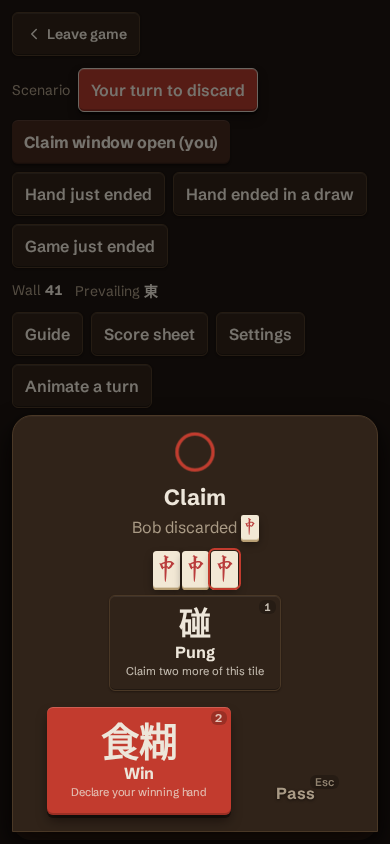
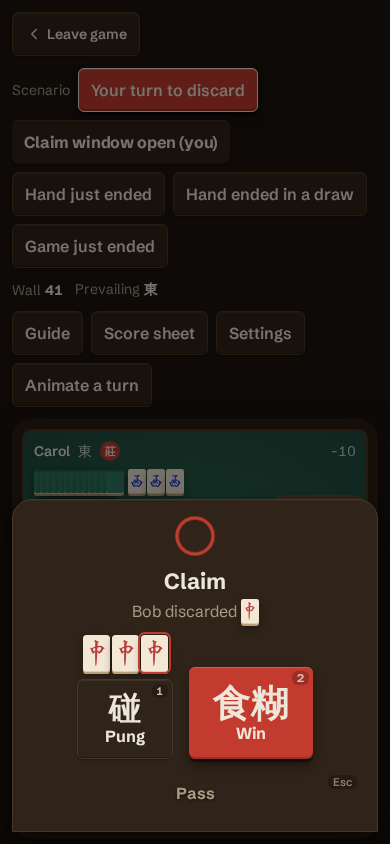
feat(web): drop claim button sub-labels, pin pass to its own bottom row
Claude-Session: https://claude.ai/code/session_016N6BrhuJ77Wo7osov28duU

diff --git a/web/src/lib/ui/ClaimDialog.svelte b/web/src/lib/ui/ClaimDialog.svelte
@@ -47,56 +47,33 @@
 		win: '食糊'
 	};
 
-	function claimSubLabel(kind: ClaimKind): string | null {
-		switch (kind) {
-			case 'pung':
-				return m.claimDialog_pungSubLabel();
-			case 'chow':
-				return m.claimDialog_chowSubLabel();
-			case 'kong':
-				return m.claimDialog_kongSubLabel();
-			case 'win':
-				return m.claimDialog_winSubLabel();
-			case 'pass':
-				return null;
-		}
-	}
-
-	function findPassOption(): ClaimOption | undefined {
-		return options.find((option) => option.kind === 'pass');
-	}
+	// pass renders on its own row below the rest, so number keys index the non-pass options only.
+	const callOptions = $derived(options.filter((option) => option.kind !== 'pass'));
+	const passOption = $derived(options.find((option) => option.kind === 'pass'));
 
 	// deadline reached with no explicit choice: resolve the same way the server does on its own
 	// timeout, reusing the exact onChoose path a manual Pass click takes.
 	function handleTimeout(): void {
-		const passOption = findPassOption();
 		if (passOption) onChoose(passOption);
 	}
 
-	let passButtonEl: HTMLButtonElement | null = null;
+	let passButtonEl: HTMLButtonElement | null = $state(null);
 
-	// `bind:this` only takes a plain identifier, not a per-option conditional -- this action
-	// captures the Pass button's node directly from the {#each} without a second branch.
-	function captureIfPass(node: HTMLButtonElement, kind: ClaimKind) {
-		if (kind === 'pass') passButtonEl = node;
-	}
-
-	// no reactive reads inside -- runs once per mount, i.e. once per window (+page.svelte's
-	// `{#if claimOptions}`), not re-stealing focus on every unrelated state update.
+	// runs once per mount, i.e. once per window (+page.svelte's `{#if claimOptions}`) -- the only
+	// reactive read is the bound node, set once.
 	$effect(() => {
 		passButtonEl?.focus();
 	});
 
-	// 1-4 pick the Nth option by position, Esc passes -- the same onChoose path a click takes.
+	// 1-4 pick the Nth call option by position, Esc passes -- the same onChoose path a click takes.
 	function handleKeydown(e: KeyboardEvent): void {
 		if (e.key === 'Escape') {
-			const passOption = findPassOption();
 			if (passOption) onChoose(passOption);
 			return;
 		}
 		const index = Number(e.key) - 1;
-		if (Number.isInteger(index) && index >= 0 && index < options.length) {
-			onChoose(options[index]);
+		if (Number.isInteger(index) && index >= 0 && index < callOptions.length) {
+			onChoose(callOptions[index]);
 		}
 	}
 </script>
@@ -119,39 +96,44 @@
 	</div>
 
 	<div class="claim-options" role="group" aria-label={m.claimDialog_optionsGroupAriaLabel()}>
-		{#each options as option, index (claimOptionKey(option, index))}
-			{@const meld = meldPreview(option)}
-			{@const subLabel = claimSubLabel(option.kind)}
-			<div class="claim-option">
-				{#if meld}
-					<div class="claim-meld" aria-hidden="true">
-						{#each meld as tile, ti (ti)}
-							<div class="claim-meld-tile" class:claim-meld-tile--claimed={tile.claimed}>
-								<TileFace code={tile.code} />
-							</div>
-						{/each}
-					</div>
-				{/if}
-				<button
-					use:captureIfPass={option.kind}
-					type="button"
-					class="claim-btn claim-btn--{option.kind}"
-					aria-label={claimOptionAriaLabel(option)}
-					onclick={() => onChoose(option)}
-				>
-					<span class="claim-btn-key" aria-hidden="true"
-						>{option.kind === 'pass' ? m.claimDialog_passEscHint() : index + 1}</span
+		<div class="claim-calls">
+			{#each callOptions as option, index (claimOptionKey(option, index))}
+				{@const meld = meldPreview(option)}
+				<div class="claim-option">
+					{#if meld}
+						<div class="claim-meld" aria-hidden="true">
+							{#each meld as tile, ti (ti)}
+								<div class="claim-meld-tile" class:claim-meld-tile--claimed={tile.claimed}>
+									<TileFace code={tile.code} />
+								</div>
+							{/each}
+						</div>
+					{/if}
+					<button
+						type="button"
+						class="claim-btn claim-btn--{option.kind}"
+						aria-label={claimOptionAriaLabel(option)}
+						onclick={() => onChoose(option)}
 					>
-					{#if CLAIM_GLYPH[option.kind]}
+						<span class="claim-btn-key" aria-hidden="true">{index + 1}</span>
 						<span class="claim-btn-glyph" aria-hidden="true">{CLAIM_GLYPH[option.kind]}</span>
-					{/if}
-					<span class="claim-btn-label">{claimOptionLabel(option)}</span>
-					{#if subLabel}
-						<span class="claim-btn-sublabel">{subLabel}</span>
-					{/if}
-				</button>
-			</div>
-		{/each}
+						<span class="claim-btn-label">{claimOptionLabel(option)}</span>
+					</button>
+				</div>
+			{/each}
+		</div>
+		{#if passOption}
+			<button
+				bind:this={passButtonEl}
+				type="button"
+				class="claim-btn claim-btn--pass"
+				aria-label={claimOptionAriaLabel(passOption)}
+				onclick={() => onChoose(passOption)}
+			>
+				<span class="claim-btn-key" aria-hidden="true">{m.claimDialog_passEscHint()}</span>
+				<span class="claim-btn-label">{claimOptionLabel(passOption)}</span>
+			</button>
+		{/if}
 	</div>
 </div>
 
@@ -207,6 +189,14 @@
 
 	.claim-options {
 		display: flex;
+		flex-direction: column;
+		align-items: stretch;
+		gap: var(--space-3);
+		width: 100%;
+	}
+
+	.claim-calls {
+		display: flex;
 		flex-wrap: wrap;
 		align-items: flex-end;
 		justify-content: center;
@@ -240,7 +230,7 @@
 		outline-offset: 1px;
 	}
 
-	// each option is a big button, not a plain label -- key badge, CJK glyph, label, sub-label.
+	// each option is a big button, not a plain label -- key badge, CJK glyph, label.
 	.claim-btn {
 		position: relative;
 		display: flex;
@@ -273,12 +263,6 @@
 
 	.claim-btn-label {
 		font-weight: 700;
-	}
-
-	.claim-btn-sublabel {
-		font-size: var(--font-size-xs);
-		font-weight: 400;
-		opacity: 0.8;
 	}
 
 	.claim-btn--chow,

diff --git a/web/src/lib/ui/ClaimDialog.spec.ts b/web/src/lib/ui/ClaimDialog.spec.ts
@@ -87,7 +87,7 @@ describe('ClaimDialog', () => {
 		expect(body).toContain('claim-btn--pass');
 	});
 
-	it('shows a CJK glyph and a sub-label for pung/chow/kong/win, not for pass', () => {
+	it('shows a CJK glyph for pung/chow/kong/win, not for pass, and no sub-label', () => {
 		const options: ClaimOption[] = [
 			{ kind: 'pung', tiles: ['z5', 'z5'] },
 			{ kind: 'win' },
@@ -99,7 +99,7 @@ describe('ClaimDialog', () => {
 		expect(body).toMatch(/class="claim-btn-glyph[^"]*"[^>]*>碰</);
 		expect(body).toMatch(/class="claim-btn-glyph[^"]*"[^>]*>食糊</);
 		expect(body).not.toMatch(/claim-btn--pass[\s\S]*?claim-btn-glyph/);
-		expect(body).toContain('claim-btn-sublabel');
+		expect(body).not.toContain('claim-btn-sublabel');
 	});
 
 	it('shows a 1-based key hint on every option and an Esc hint on pass', () => {
@@ -109,5 +109,21 @@ describe('ClaimDialog', () => {
 		});
 		expect(body).toMatch(/class="claim-btn-key[^"]*"[^>]*>1</);
 		expect(body).toMatch(/class="claim-btn-key[^"]*"[^>]*>Esc</);
+	});
+
+	it('renders pass on its own row after the call options, whatever its position in the offer', () => {
+		const options: ClaimOption[] = [
+			{ kind: 'pass' },
+			{ kind: 'pung', tiles: ['z5', 'z5'] },
+			{ kind: 'win' }
+		];
+		const { body } = render(ClaimDialog, {
+			props: { discardTile: 'z5', discarderName: 'Bob', options, durationMs: 5000, onChoose: noop }
+		});
+		const calls = body.slice(body.indexOf('class="claim-calls'), body.indexOf('claim-btn--pass'));
+		expect(calls).toContain('claim-btn--pung');
+		expect(calls).toContain('claim-btn--win');
+		expect(body.indexOf('claim-btn--pass')).toBeGreaterThan(body.lastIndexOf('claim-btn--win'));
+		expect(body).toMatch(/claim-btn--pung[\s\S]*?class="claim-btn-key[^"]*"[^>]*>1</);
 	});
 });

diff --git a/docs/frontend.md b/docs/frontend.md
@@ -345,9 +345,11 @@ dialog that never closes on its own. `hand_end_ack` gets the same auto-close wit
 risk: it's an acknowledgment, and the table advances at the same `deadline_ts` regardless.
 
 **`ClaimDialog` layout.** Each option is a big button (meld preview above it, a CJK call glyph
-碰/上/槓/食糊 inside, a short localized sub-label, a `1`-`N` key-hint badge) — Win gets the same
+碰/上/槓/食糊 inside, the kind label, a `1`-`N` key-hint badge; no sub-label) — Win gets the same
 accent-glow treatment as a `SeatPlate` turn halo, sized up from its siblings, since it's the one
-choice worth making unmissable; Pass carries an "Esc" hint instead of a number. Initial focus lands
+choice worth making unmissable. Pass is always its own full-width row below the call options,
+never beside them, and carries an "Esc" hint instead of a number; `1`-`N` index the call options
+only. Initial focus lands
 on Pass (an `$effect` with no reactive reads, so it fires once per mount — the dialog only mounts
 while a claim window is open, i.e. once per window, not on every unrelated state update) so
 keyboard users have a safe default under their fingers immediately; number keys `1`-`N` and `Esc`
